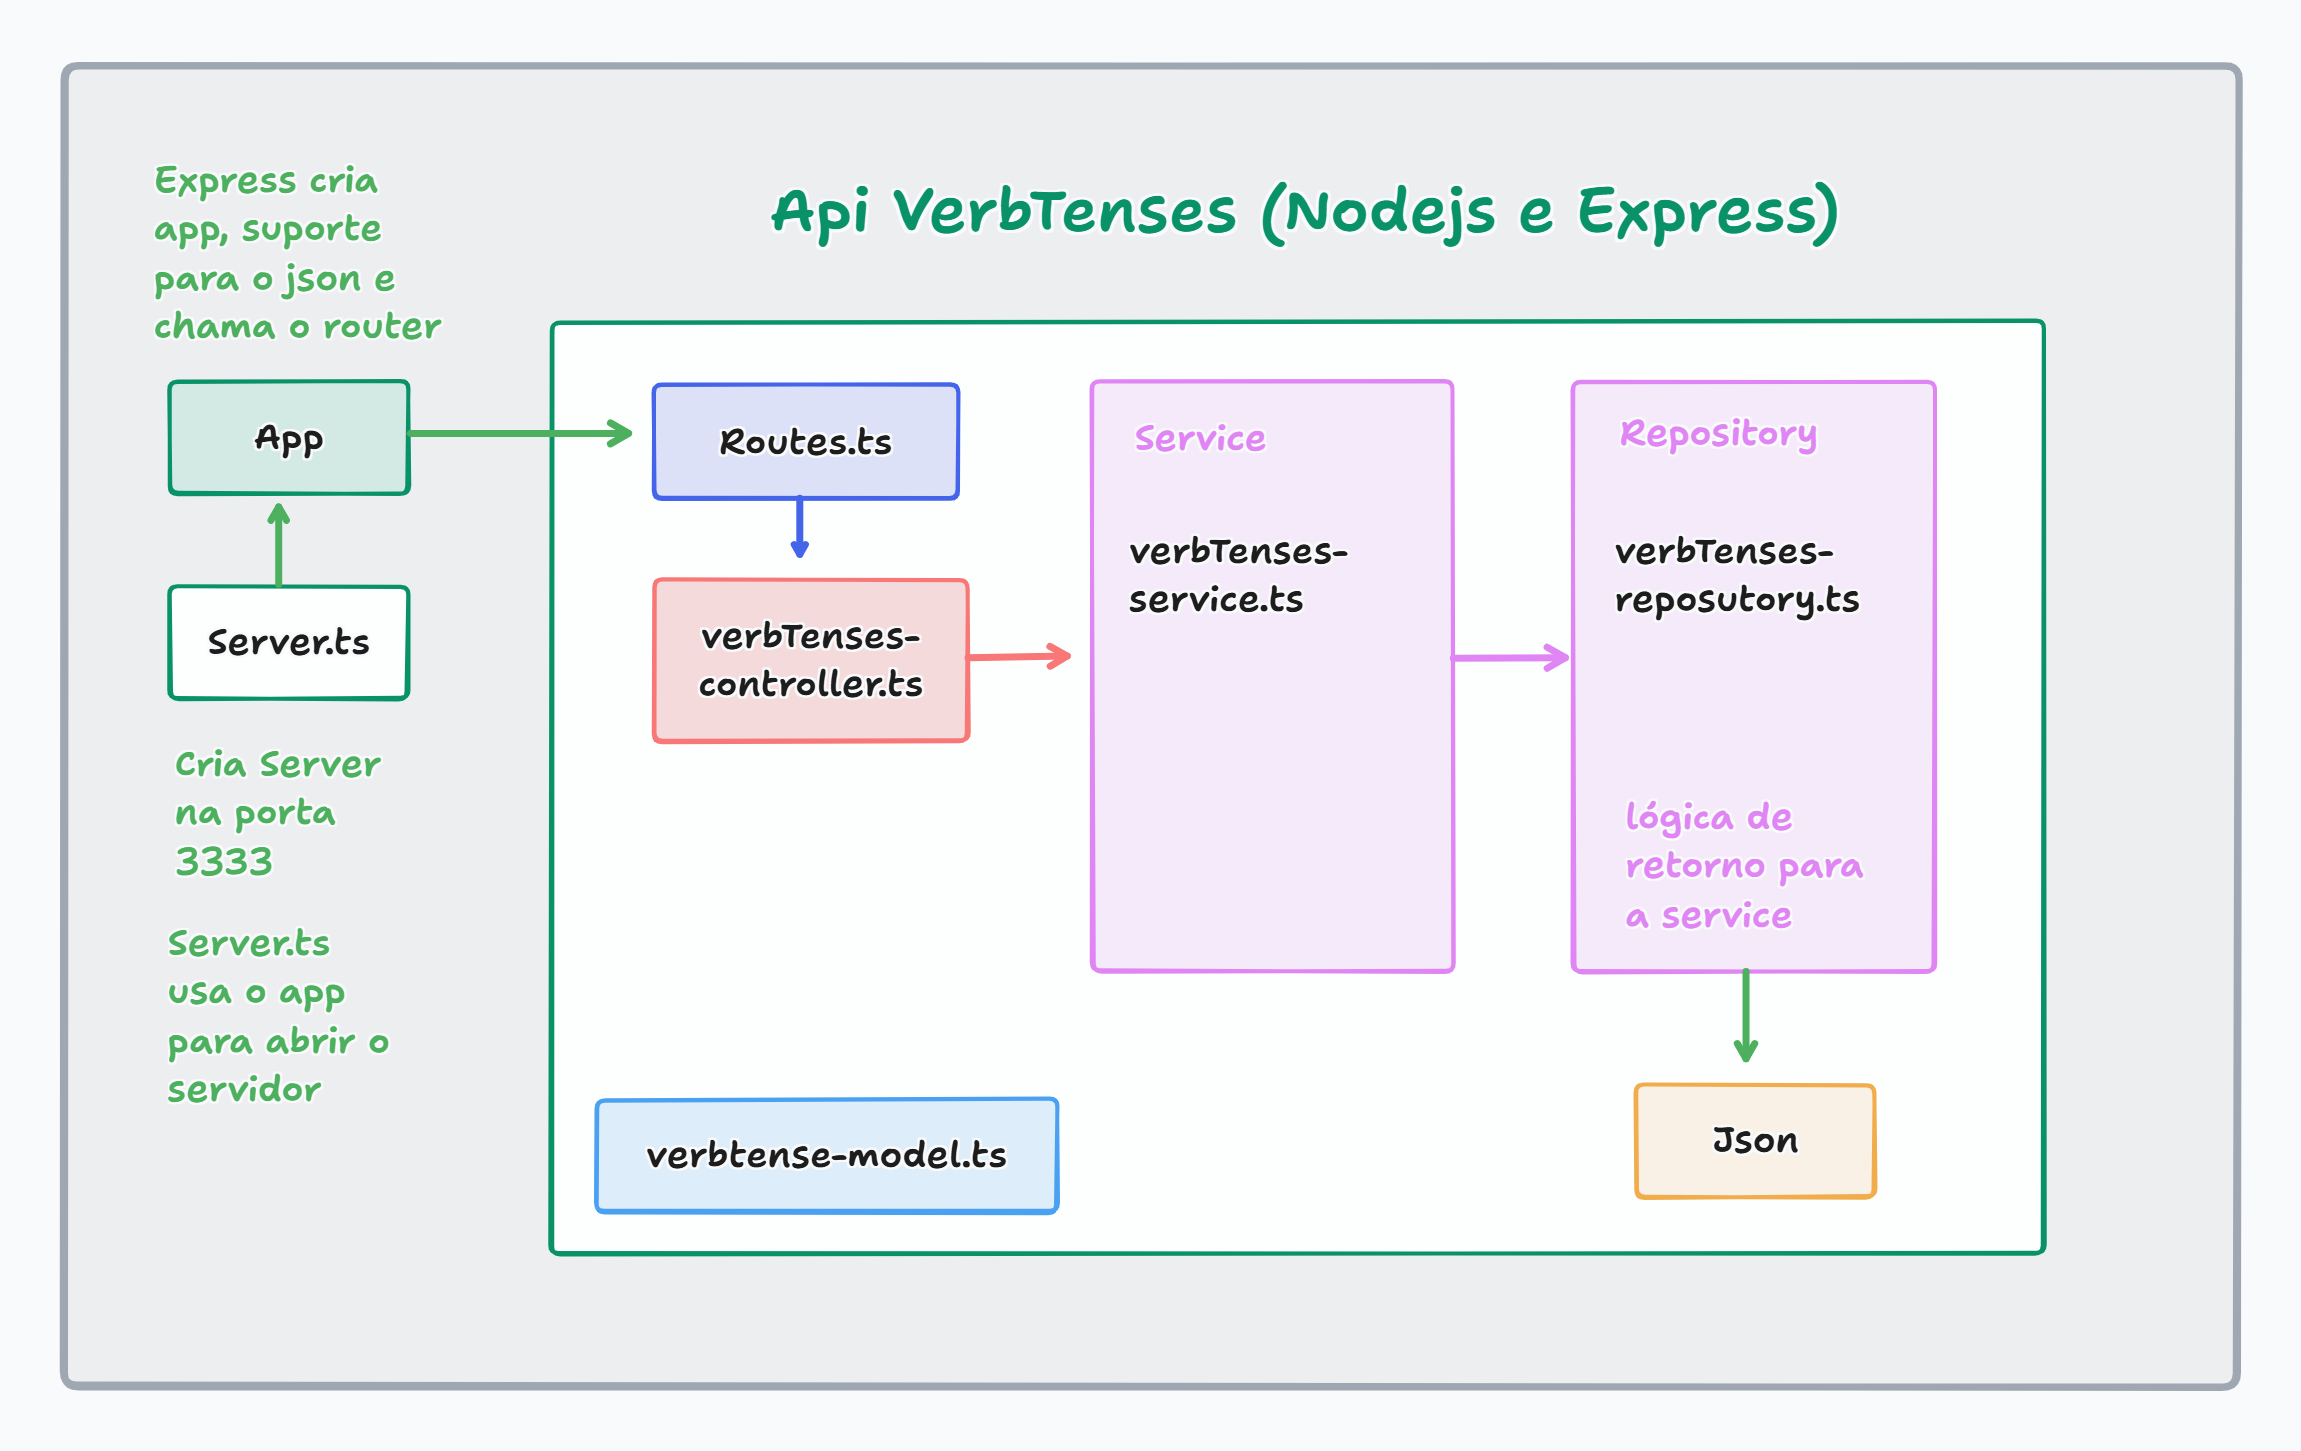
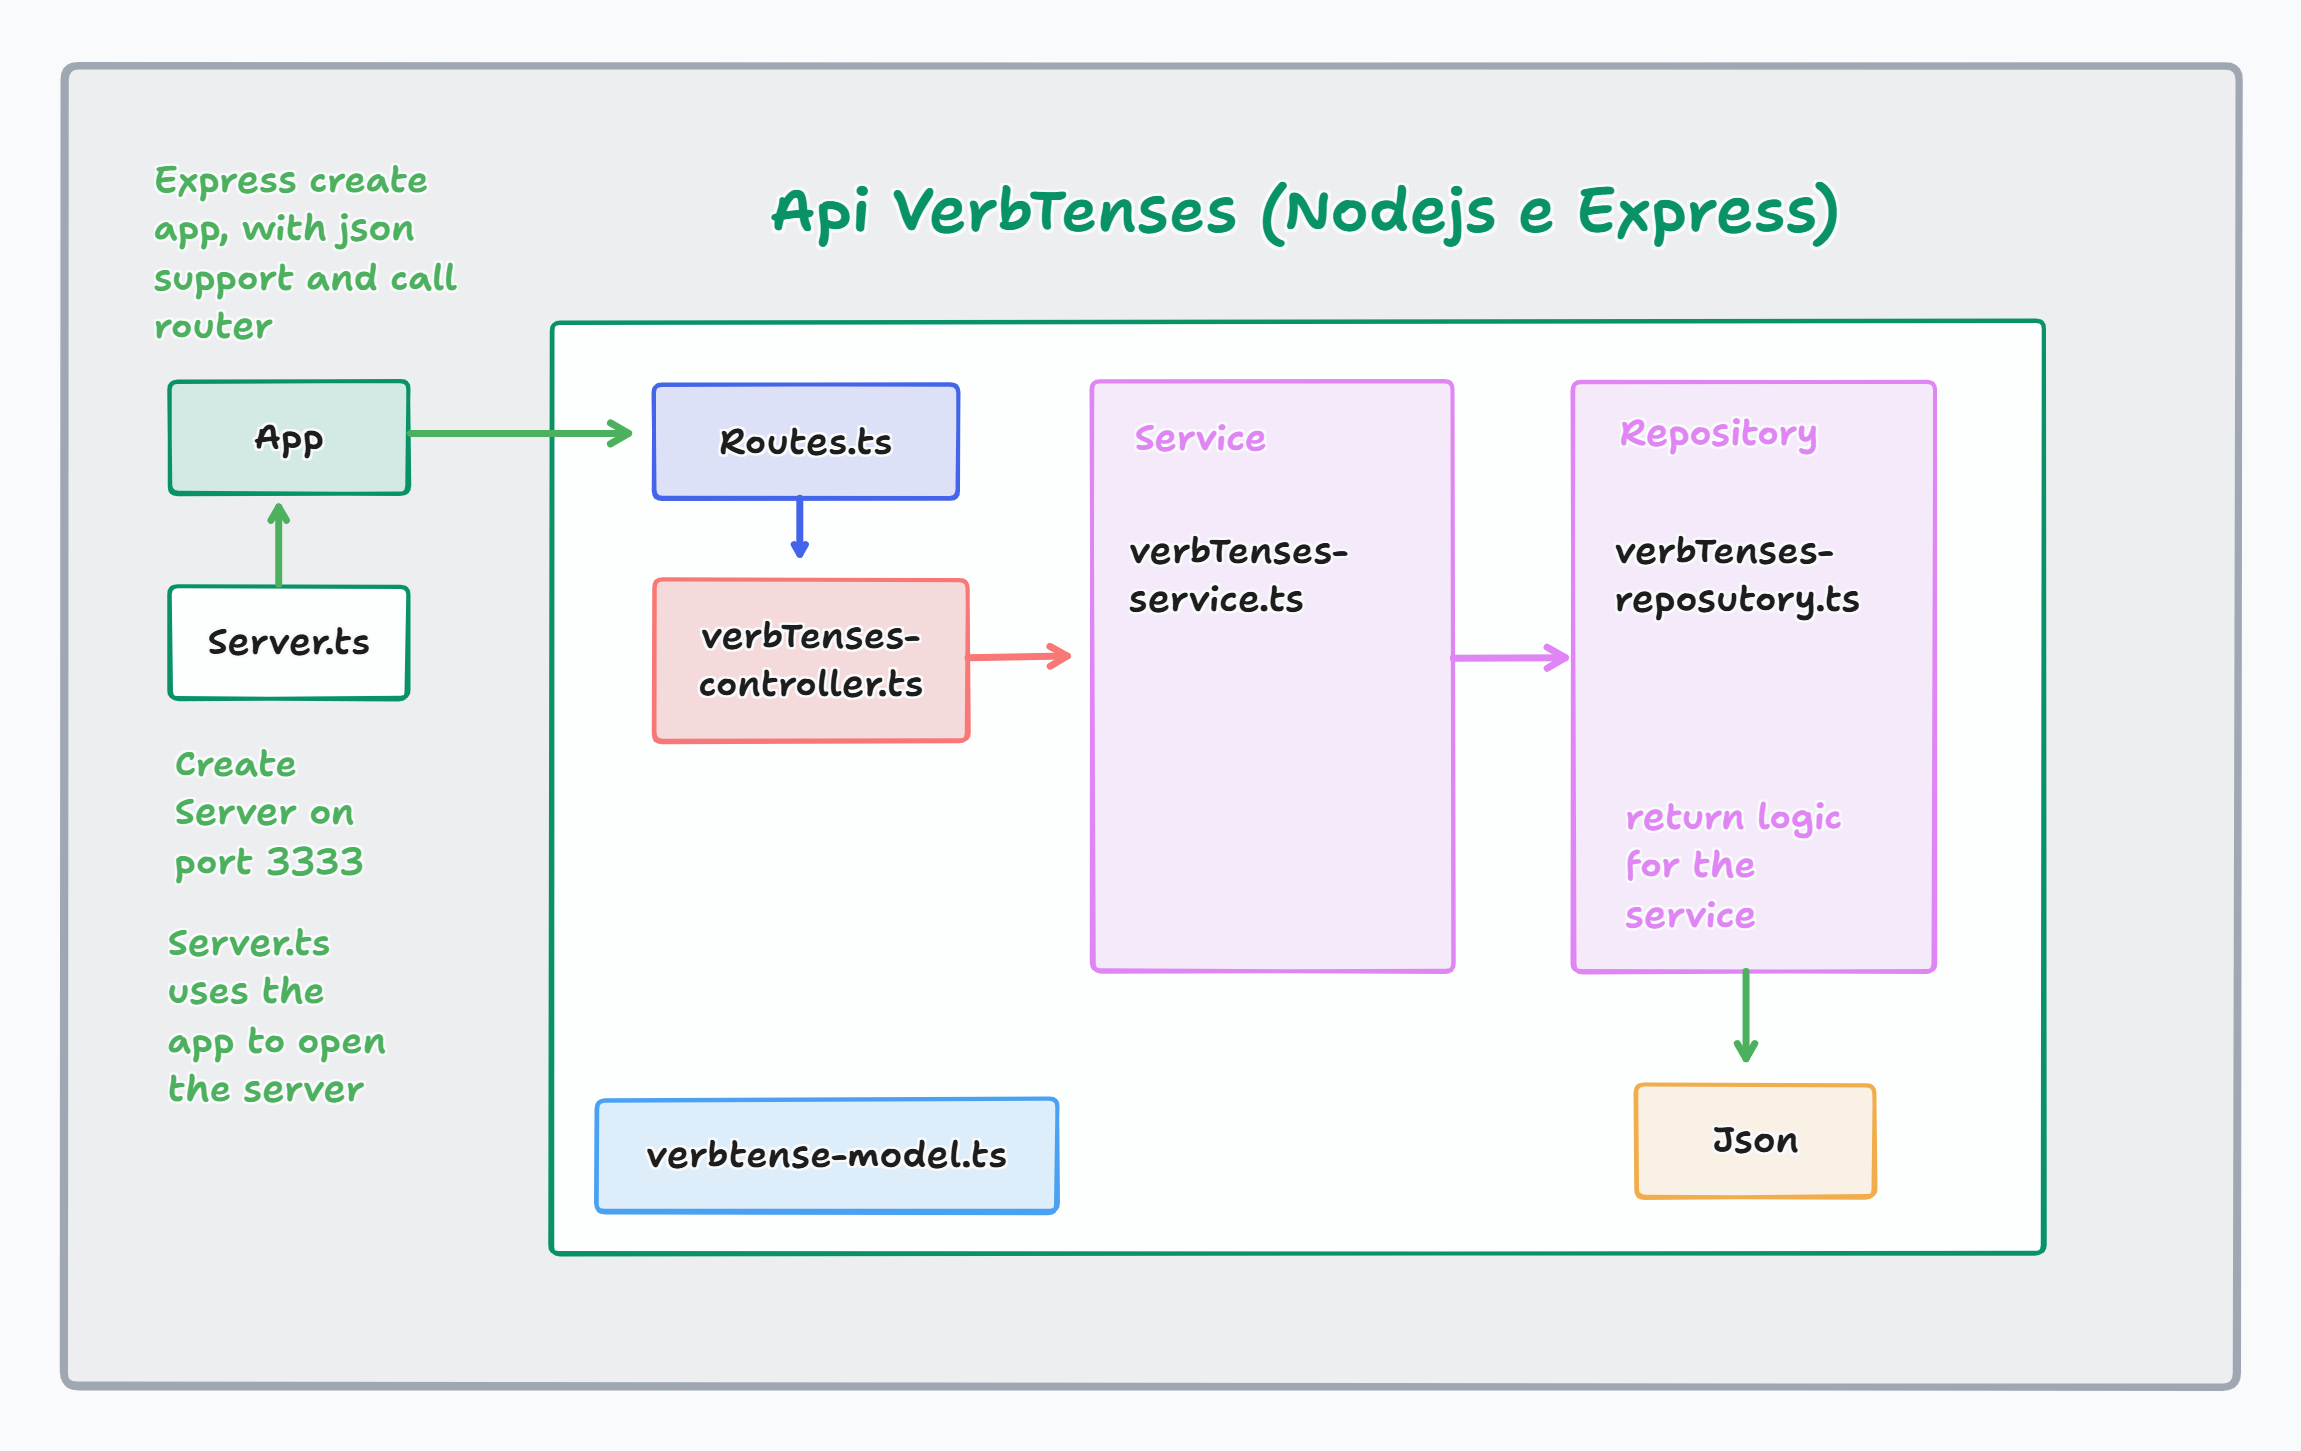
project-verbtenses: readme architecture

diff --git a/API/API-NodeJs-Express/project-verb-tenses/readme.md b/API/API-NodeJs-Express/project-verb-tenses/readme.md
@@ -50,6 +50,10 @@ DELETE /verbtenses/:id
 
 PORT=3333
 
+## Application architecture
+
+![Application architecture](./docs/architecture.png)
+
 ## License
 
 This project is licensed under the [MIT License](/LICENSE).
